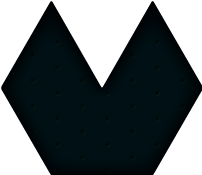
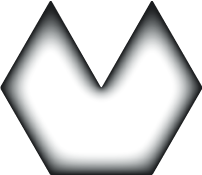
Move hexagon image to background and add dividers

diff --git a/css/melvin.min.css b/css/melvin.min.css
@@ -2,4 +2,4 @@
  * melvin.io v1.6.0
  * Copyright 2013 Melvin Chien <hello@melvin.io> (http://melvin.io/)
  * Licensed under the MIT license
- */a{color:#008ce2}a:hover{color:gray;text-decoration:none;cursor:pointer}body{background-color:#001014;background-image:url(/images/bg_dots.png);background-repeat:repeat}.canvas-hexagon{margin-left:auto;margin-right:auto;display:block}.text-centered{text-align:center}.hexagon{margin-top:3em}@media only screen and (min-width:768px){.hexagon{margin-top:10em}}.scroll-arrow{margin-top:15em}.scroll-arrow i{color:#333}.top-bar{max-height:45px;-webkit-transition:max-height .5s ease;-moz-transition:max-height .5s ease;-o-transition:max-height .5s ease;transition:max-height .5s ease}.top-bar.expanded{max-height:177px}.top-bar-clear{background-color:transparent}.top-bar-clear .top-bar-section ul{background-color:transparent}.top-bar-clear .top-bar-section li a:not(.button){background-color:transparent}.top-bar-clear.expanded .title-area{background-color:transparent}.top-bar-clear.expanded .top-bar-section>ul>li>a:hover{background-color:#333}
+ */a{color:#008aad}a:hover{color:#14cfff;text-decoration:none;cursor:pointer}body{background-color:#001014;background-image:url(/images/bg_dots.png);background-repeat:repeat}body,h1,h2,h3,h4,h5,h6{color:#ccc;font-family:"Helvetica Neue",Helvetica,Helvetica,Arial,sans-serif}.canvas-hexagon{margin-left:auto;margin-right:auto;display:block}.divider{border-top:solid 1px #ccc;clear:both;margin-top:2.5em;margin-bottom:2em}.hexagon{background-image:url(/images/hexagon.png);background-repeat:no-repeat;background-position:center top;height:175px;margin-top:10em}.scroll-arrow{margin-top:8em}.scroll-arrow i{color:#333}.text-centered{text-align:center}.top-bar{max-height:45px;-webkit-transition:max-height .5s ease;-moz-transition:max-height .5s ease;-o-transition:max-height .5s ease;transition:max-height .5s ease}.top-bar.expanded{max-height:177px}.top-bar-clear{background-color:transparent}.top-bar-clear .top-bar-section ul{background-color:transparent}.top-bar-clear .top-bar-section ul li a:not(.button){color:#ccc;background-color:transparent}.top-bar-clear .top-bar-section ul li a:not(.button):hover{color:#fff}.top-bar-clear.expanded .title-area{background-color:transparent}.top-bar-clear.expanded .top-bar-section>ul>li>a:hover{background-color:#333}

diff --git a/css/melvin.css b/css/melvin.css
@@ -32,16 +32,21 @@ h6 {
   margin-right: auto;
   display: block;
 }
+.divider {
+  border-top: solid 1px #cccccc;
+  clear: both;
+  margin-top: 2.5em;
+  margin-bottom: 2em;
 }
 .hexagon {
-  margin-top: 3em;
-@media only screen and (min-width: 768px) {
-  .hexagon {
-    margin-top: 10em;
-  }
+  background-image: url("/images/hexagon.png");
+  background-repeat: no-repeat;
+  background-position: center top;
+  height: 175px;
+  margin-top: 10em;
 }
 .scroll-arrow {
-  margin-top: 15em;
+  margin-top: 8em;
 }
 .scroll-arrow i {
   color: #333333;

diff --git a/css/melvin.less b/css/melvin.less
@@ -35,16 +35,23 @@ body, h1, h2, h3, h4, h5, h6 {
   display: block;
 }
 
+.divider {
+  border-top: solid 1px @grey-light;
+  clear: both;
+  margin-top: 2.5em;
+  margin-bottom: 2em;
 }
 
 .hexagon {
-  margin-top: 3em;
-  @media only screen and (min-width: 768px) {
-    margin-top: 10em;
+  background-image: url("/images/hexagon.png");
+  background-repeat: no-repeat;
+  background-position: center top;
+  height: 175px;
+  margin-top: 10em;
 }
 
 .scroll-arrow {
-  margin-top: 15em;
+  margin-top: 8em;
   i {
     color: @grey-dark;
   }
